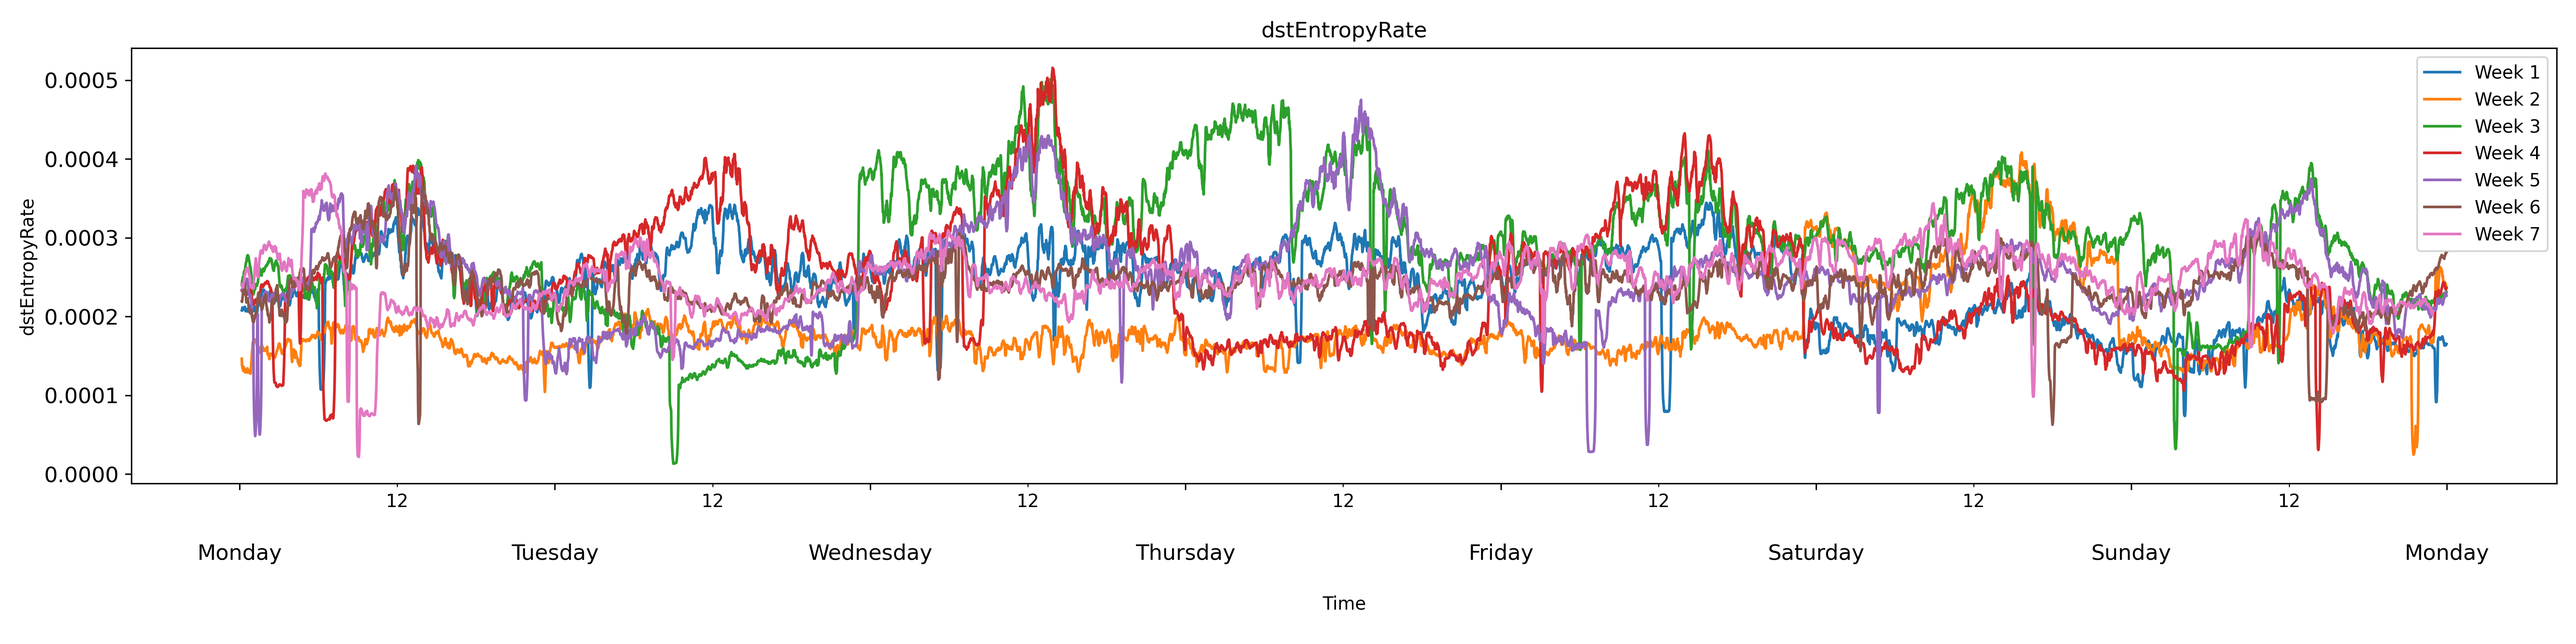
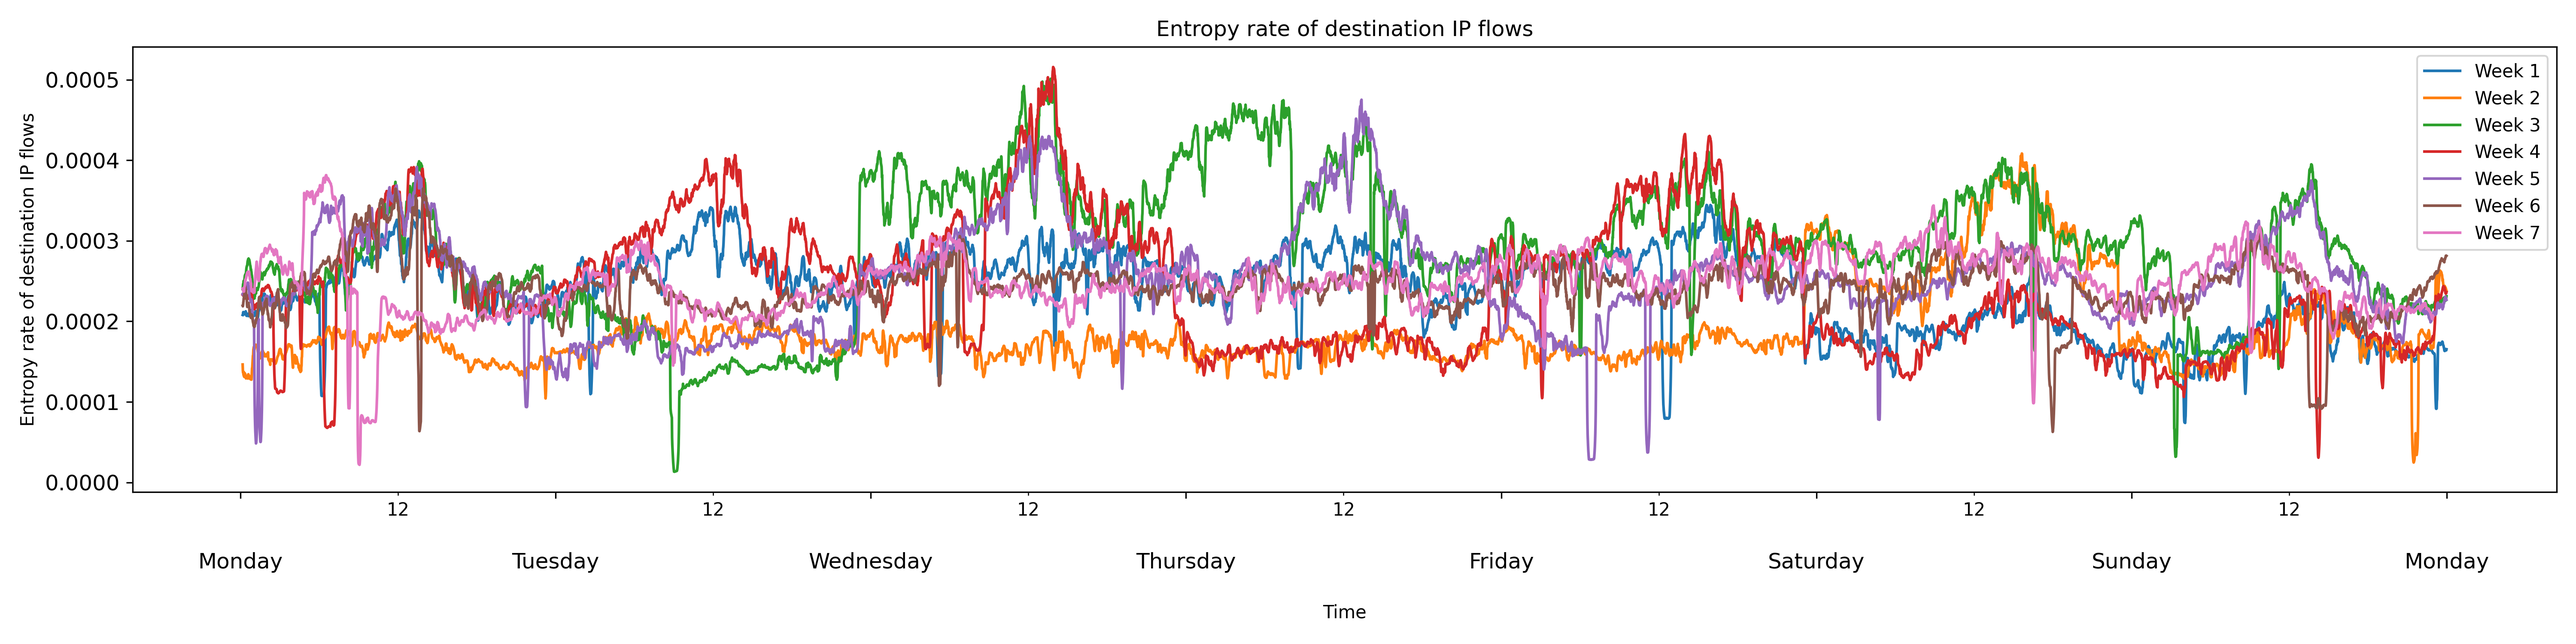
wrong axis name

diff --git a/NetFlow/Entropy/plotWeeklyImproved.py b/NetFlow/Entropy/plotWeeklyImproved.py
@@ -73,5 +73,5 @@ y_field_names = ["Entropy of source IP flows", "Entropy rate of source IP flows"
                  "Number of packets", "Number of bytes"]
 counter1 = 0
 for file in files:
-    makePlot(file, y_fields[counter1], y_fields[counter1], 'Plots/Entropy/ImprovedWeeklyComparison.600.', timedelta(minutes = 10))
+    makePlot(file, y_fields[counter1], y_field_names[counter1], 'Plots/Entropy/ImprovedWeeklyComparison.600.', timedelta(minutes = 10))
     counter1 += 1
